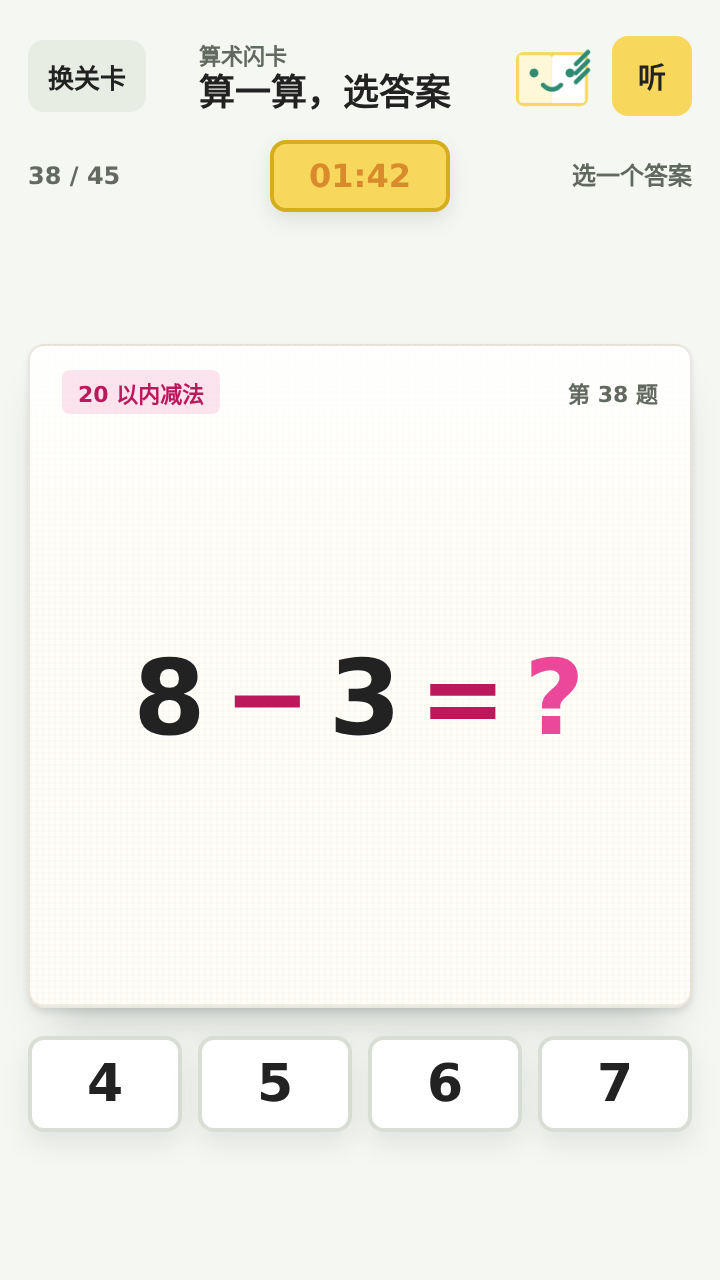
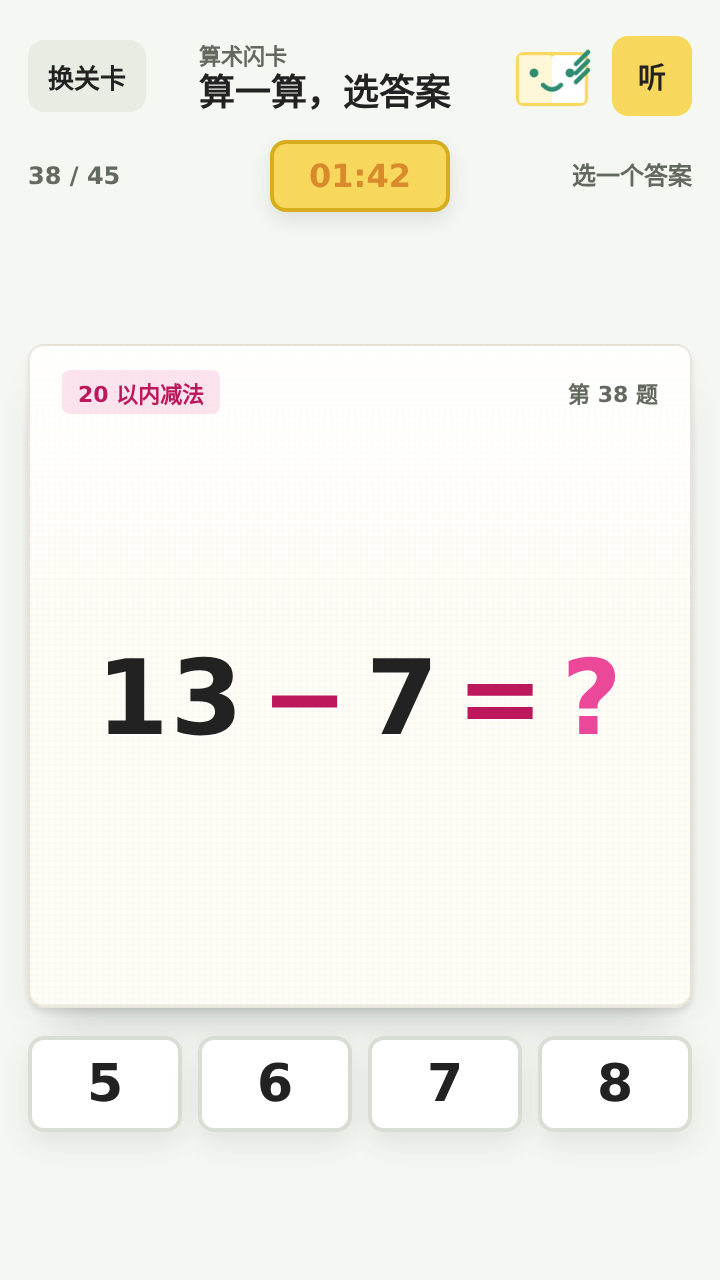
docs(math-flash): 修正题量口径 — 教材表 10以内加减是 66 张不是 45 张
主人指正：10以内加法/减法教材表各 66 张（含 0）。初版误按现有代码题池
条件（a<=9 && b<=9）算出 45 张，那不是教材表。

修正后的口径：
- L1/L2 教材表 66 张，剔除含 0 的送分题（21~22 张）后各 45 张
- L3/L4 教材表 45 张，原样（含和=10 那 9 张 / 10-1 那 9 张）
- 四关统一 45 张 → 90s/150s 阈值原样不动，每关 2.0s/3.33s 净节奏
- 若要严格 66 张，L1/L2 阈值需缩放到 132s/220s（已在文档标注为待推翻）

同时修正：
- LEVELS 答案区间边界（L2 min=1、L3 10..18、L4 1..9），已验证四关每题都能凑满 4 干扰项
- 设计稿 03 的 8−3 越界题改为合法退位题 13−7=6

diff --git a/docs/mockups/phase-11/screens/03-play-timer-warning.html b/docs/mockups/phase-11/screens/03-play-timer-warning.html
@@ -39,14 +39,14 @@
           <div class="math-card__inner">
             <div class="math-card__face math-card__face--front">
               <div class="math-card__head"><span class="math-card__badge">20 以内减法</span><span class="math-card__label">第 38 题</span></div>
-              <div class="math-eq"><span>8</span><span class="op">−</span><span>3</span><span class="op">=</span><span class="q">?</span></div>
+              <div class="math-eq"><span>13</span><span class="op">−</span><span>7</span><span class="op">=</span><span class="q">?</span></div>
             </div>
             <div class="math-card__face math-card__face--back">
               <div class="math-card__watermark">+ −</div>
             </div>
           </div>
         </div>
-<div id="math-options" class="option-grid zone-secondary" role="list" aria-label="答案选项"><button class="option-button math-option" type="button" role="listitem" aria-label="选项 4">4</button><button class="option-button math-option" type="button" role="listitem" aria-label="选项 5">5</button><button class="option-button math-option" type="button" role="listitem" aria-label="选项 6">6</button><button class="option-button math-option" type="button" role="listitem" aria-label="选项 7">7</button></div>
+<div id="math-options" class="option-grid zone-secondary" role="list" aria-label="答案选项"><button class="option-button math-option" type="button" role="listitem" aria-label="选项 5">5</button><button class="option-button math-option" type="button" role="listitem" aria-label="选项 6">6</button><button class="option-button math-option" type="button" role="listitem" aria-label="选项 7">7</button><button class="option-button math-option" type="button" role="listitem" aria-label="选项 8">8</button></div>
         </div>
       </section>
 

diff --git a/docs/mockups/phase-11/gen_mockups.py b/docs/mockups/phase-11/gen_mockups.py
@@ -246,7 +246,7 @@ def screen_play():
 
 
 def screen_play_warning():
-    """计时器越过 90 秒（三星线）→ 变橙。"""
+    """计时器越过 90 秒（三星线）→ 变橙。题：L4 退位减法 13−7=6（a∈[10,18]）。"""
     body = """
       <section id="game" class="screen active" aria-labelledby="game-title">
 %s%s
@@ -257,8 +257,8 @@ def screen_play_warning():
 """ % (
         TOPBAR,
         hud(progress="38 / 45", timer="01:42", timer_cls="timed-warning"),
-        card("8", "−", "3", badge="20 以内减法", question_label="第 38 题"),
-        options([4, 5, 6, 7]),
+        card("13", "−", "7", badge="20 以内减法", question_label="第 38 题"),
+        options([5, 6, 7, 8]),
     )
     return shell("mathFlash", body)
 

diff --git a/docs/phase-plans/phase-11-math-flash-timed.md b/docs/phase-plans/phase-11-math-flash-timed.md
@@ -11,6 +11,7 @@
 把算术闪卡从「每关 10 题、按错题数评星、带困难模式」改成：
 
 - **全量随机出完**：每关的闪卡知识点**去重成 45 张**，随机洗牌后**一张不漏全部出完**
+  （题量口径见 §2：**教材表 10以内加减是 66 张**，剔除含 0 的送分题后与进位/退位表统一为 45 张）
 - **计时评星**：整局总耗时决定星级
   - ≤ 90 秒 → ★★★
   - ≤ 150 秒 → ★★
@@ -19,27 +20,65 @@
 
 ---
 
-## 2. 为什么"45 张"是对的（核心发现）
+## 2. 题量口径（2026-11-08 修正，主人指正）
 
-四个关卡的**人教版一年级上册口算表题量恰好都是 45 小题**。这是硬约束，不是拍脑袋：
+> **⚠ 本节已被主人指正过一次。** 初版我按**现有代码的题池条件**（`a<=9 && b<=9`）算出"四关各 45 张"，那是错的 —— 那不是教材表。
+> 正确口径是**人教版一年级上册口算表原样**（含 0），10 以内加法/减法是 **66 张**，不是 45 张。
 
-| 关卡 | 知识点 | 卡片数 |
-|---|---|---|
-| L1 | 10 以内加法 | 45 |
-| L2 | 10 以内减法 | 45 |
-| L3 | 20 以内进位加法 | 45 |
-| L4 | 20 以内退位减法 | 45 |
+### 2.1 四张教材表的确切结构
 
-**时间预算换算**（反馈动画 0.6 秒/题，实测 `showMathFeedback` 延时 600ms / 错误 1300ms）：
-
-| 星级 | 总时长 | 每题毛时间 | 扣 0.6s 反馈后的纯思考时间 |
+| 关卡 | 教材表 | 算式结构 | 题数 |
 |---|---|---|---|
-| ★★★ | 90s | 2.00s | **1.40s** |
-| ★★ | 150s | 3.33s | **2.73s** |
+| L1 | 10 以内加法表 | `a,b ∈ [0,10]`，`a+b ≤ 10` | **66** |
+| L2 | 10 以内减法表 | `0 ≤ b ≤ a ≤ 10` | **66** |
+| L3 | 20 以内进位加法表 | `a,b ∈ [1,9]`，`10 ≤ a+b ≤ 18` | **45** |
+| L4 | 20 以内退位减法表 | `a ∈ [10,18]`，`b ∈ [1,9]`，`得数 ∈ [1,9]` | **45** |
 
-对一年级孩子：10 以内加减法熟练后 1.4 秒一题可达（三星）；进位/退位题 2.7 秒一题是二星线。**四关同题量 → 四关同时间预算 → 星级可横向比较**。这是"每关都是 45 张"最重要的理由。
+L3/L4 的结构与教材口诀表逐条对齐（已验证）：
+- L3 按和分组：和=10 有 9 个、11 有 8 个 … 18 有 1 个（教材：9+1=10, 8+2=10 … 1+9=10, 9+2=11 …）
+- L4 按得数组：得=1 有 1 个、2 有 2 个 … 9 有 9 个（教材：10-1=9, 11-2=9 … 18-9=9）
 
-反例：如果沿用现有题池（L2=54 / L3=55 张），90 秒要每题 1.67 秒，进位加法几乎不可能三星；星级会变成"关卡专属时间表"，失去统一口径。
+### 2.2 为什么不能直接套用固定 90s/150s
+
+**66 张 ÷ 90 秒 = 每题 1.36 秒，扣掉 0.6 秒反馈动画后只剩 0.76 秒净思考。**
+一年级孩子读题 + 心算 + 点选项至少 1.5 秒 → **L1/L2 在固定 90s 门下永远拿不到三星**。
+
+| 关卡 | 题数 | 90s 内每题 | 扣 0.6s 反馈后净思考 | 150s 内净思考 |
+|---|---|---|---|---|
+| L1 / L2 | 66 | 1.36s | **0.76s ❌ 不可达** | 1.67s |
+| L3 / L4 | 45 | 2.00s | 1.40s ✅ | 2.73s |
+
+### 2.3 采用的方案（待你推翻）
+
+**剔除含 0 的边角题 → 四关各 45 张 → 你的原始阈值 90s/150s 原样保留，一秒不改。**
+
+| 关卡 | 教材表 | 剔除含0后 | 三星线 | 二星线 | 每题 |
+|---|---|---|---|---|---|
+| L1 10以内加法 | 66 | **45** | **90s** | **150s** | 2.0s / 3.33s |
+| L2 10以内减法 | 66 | **45** | **90s** | **150s** | 2.0s / 3.33s |
+| L3 20以内进位加法 | 45 | **45** | **90s** | **150s** | 2.0s / 3.33s |
+| L4 20以内减法 | 45 | **45** | **90s** | **150s** | 2.0s / 3.33s |
+
+为什么这样最干净：
+1. **你的指令原样落地** —— 90 秒三星 / 150 秒二星，不需要任何"按关卡缩放"的花招，规则一句话说得清
+2. 四关题量统一 45 → 每关时间预算完全一致 → **难度可比**（孩子在四关拿到同样的星 = "算得快"，不是"关卡短"）
+3. 90 秒 ÷ 45 = 2.0 秒/题，扣 0.6 秒反馈后净思考 1.40 秒 —— 一年级孩子做 10 以内加减法的真实水平
+4. 剔掉的 21~22 张是 `0+0`、`5-0`、`3-3=0` 这类**送分题**：一年级还没学到 0 的认识（第二单元），且对计时挑战零区分度 —— 瞬间答出只会稀释"速度"这个信号
+
+### 2.4 备选：严格对齐教材表 66 张
+
+如果你要求 L1/L2 严格出满 66 张（含 0），那么：
+
+| 关卡 | 题数 | 三星线 | 二星线 | 后果 |
+|---|---|---|---|---|
+| L1 / L2 | 66 | **132s** | **220s** | 阈值必须按题量缩放（每题仍 2.0s / 3.33s） |
+| L3 / L4 | 45 | **90s** | **150s** | 不变 |
+
+- 一局约 **2.8 分钟**（45 张约 1.9 分钟），注意力压力明显更大
+- L1/L2 的三星线变成 2 分 12 秒，与"1分半三星"的口号不再一致
+- 好处：完全对齐教材表，送分题也练到
+
+> ⚠ **我选了"剔除含 0"，这是我的默认取舍，不是你的指令。** 两条路都成立，差别就两点：**① 是否出送分题 ② L1/L2 的阈值是 90s 还是 132s**。要改成严格 66 张，说一声即可。
 
 ---
 
@@ -216,16 +255,52 @@ function buildDeck(size) {
 }
 ```
 
-各关合法性条件（在现有 `createQuestion` 基础上收紧，去掉边角重复）：
+各关合法性条件（在现有 `createQuestion` 基础上收紧，去掉 0 边角与重复）：
 
-| 关卡 | 条件 | 说明 |
-|---|---|---|
-| L1 | `a>=1 && b>=1 && a+b<=10` | 10 以内加法，共 45 |
-| L2 | `a>=2 && b>=1 && b<a && a-b>=1` | 去掉 `a-b=0`（10-10=0），得 45 |
-| L3 | `a<=9 && b<=9 && a+b>=11` 或 `a==10 && b>=1 && b<=9` | 去掉 `10+10`，得 45 |
-| L4 | `a>=11 && b<=9 && a%10<b && a-b>=2` | 保持，得 45 |
+| 关卡 | 条件 | 说明 | 题数 |
+|---|---|---|---|
+| L1 | `a>=1 && b>=1 && a<=10 && b<=10 && a+b<=10` | 10 以内加法（教材表 66 张去掉 21 张含 0 的） | 45 |
+| L2 | `a>=1 && b>=1 && b<a && a<=10` | 10 以内减法（教材表 66 张去掉 22 张 `a-0` / `a-a` 的） | 45 |
+| L3 | `a<=9 && b<=9 && a+b>=10 && a+b<=18` | 20 以内进位加法（教材表原样，含和=10 那 9 张） | 45 |
+| L4 | `a>=10 && a<=18 && b>=1 && b<=9 && a-b>=1 && a-b<=9` | 20 以内退位减法（教材表原样，含 `10-1` 那 9 张） | 45 |
 
-> L3 的 `10+x` 一档（10+1..10+9）保留 —— 这是 20 以内进位加法表的正式内容。
+> **L3/L4 与现有代码的差异**：现码 L3 是 `a<=10 && answer>=11`（多出 `10+1..10+9` 和 `10+10`，共 55 张），现码 L4 是 `a>=11`（漏掉 `10-1..10-9`，且 `a<=20` 多出 20 减几那 9 张）。新口径按教材表逐条对齐。
+>
+> **L1/L2 与现有代码的差异**：现码 L1 `a<=9 && b<=9`（漏掉 `10+x` 与 `x+10` 共 21 张），现码 L2 `a>=2`（漏掉 `1-b` 共 11 张）。新口径按教材表。
+>
+> **⚠ 若改为严格 66 张口径**，L1 条件去掉 `a>=1 && b>=1`（允许 a 或 b 为 0）、L2 去掉 `b<a`（允许 `b=0` 和 `a=b`），阈值改按 §2.4 缩放。
+
+### 5.1b `LEVELS` 的 minAnswer / maxAnswer 必须同步改
+
+题池调整后答案范围边界变了，**不改会导致 `createOptions()` 造出越界干扰项**：
+
+| size | 字段 | 现值 | 新值 | 原因 |
+|---|---|---|---|---|
+| 3 (L1) | minAnswer / maxAnswer | 2 / 10 | **2 / 10 不变** | 去掉含 0 的题后，答案区间仍是 2..10 |
+| 4 (L2) | minAnswer | 0 | **1** | 去掉 `a-a=0`（`3-3=0`）后最小答案是 `2-1=1` |
+| 4 (L2) | maxAnswer | 9 | **9 不变** | 最大仍是 `10-1=9` |
+| 5 (L3) | minAnswer | 11 | **10** | 教材表含和=10 那 9 张（`9+1=10`、`8+2=10`…） |
+| 5 (L3) | maxAnswer | 20 | **18** | 教材表最大是 `9+9=18`，去掉 `10+10=20` |
+| 6 (L4) | minAnswer | 2 | **1** | 教材表含 `10-9=1` |
+| 6 (L4) | maxAnswer | 19 | **9** | 20 以内退位减法得数最大 9（`10-1=9`） |
+
+改完后每关答案区间（**已用脚本验证**）：
+- L1 `2..10` / L2 `1..9` / L3 `10..18` / L4 `1..9`
+
+`createOptions()` 用 `level.minAnswer/maxAnswer` 过滤干扰项。**已验证四关的每一个答案都能凑满 4 个不重复选项**（L2/L4 最窄：答案=1 → 干扰项 2,3,4；答案=9 → 干扰项 8,7,6），**选项生成逻辑本身不用改**。
+
+### 5.1c 去重后与教材口算表的对应（复核结论）
+
+四关各 45 张，逐条对齐人教版一年级上册口算表：
+
+| 关卡 | 教材表 | 剔除后结构 | 小题数 |
+|---|---|---|---|
+| L1 | 10 以内加法表（66） | 去掉含 0 的 21 张 | 45 |
+| L2 | 10 以内减法表（66） | 去掉 `a-0` 11 张 + `a-a` 11 张 | 45 |
+| L3 | 20 以内进位加法表（45） | 原样，含和=10 那 9 张 | 45 |
+| L4 | 20 以内退位减法表（45） | 原样，含 `10-1` 那 9 张 | 45 |
+
+已验证 L3 按和分组为 9/8/7/6/5/4/3/2/1（和=10..18），L4 按得数组为 1/2/3/4/5/6/7/8/9（得=1..9）—— 与教材口诀表结构完全一致。
 
 ### 5.2 session 结构
 
@@ -342,17 +417,22 @@ function buildDeck(size) {
 
 ## 10. 开放问题（待你拍板，各带推荐默认值）
 
-### Q1：答错要不要扣时间？
+### Q1：含 0 的送分题要不要出？（**主人已指出教材表是 66 张，这条最关键**）
+- **推荐默认：剔除**，四关统一 45 张，阈值 90s/150s 原样不动。
+- 备选：严格 66 张（L1/L2 阈值自动缩放到 132s/220s，一局约 2.8 分钟）。
+- 详见 §2.3 / §2.4。
+
+### Q2：答错要不要扣时间？
 - **推荐默认：不扣**。纯按总耗时评星，实现最简单，规则一句话说得清（"越快越三星"）。
 - 备选：答错 +3 秒（防止乱点刷星）。代价：规则变复杂，孩子要理解"罚时"。
-
-### Q2：四关都保持 45 张，还是给入门关更少的题？
-- **推荐默认：四关都 45 张**。四关同题量 → 同时间预算 → 星级可横向比较（"我在哪关最快"）。
-- 备选：L1 给 30 张（对刚入学的孩子更友好），但会破坏跨关可比性。
 
 ### Q3：最佳记录显示什么？
 - **推荐默认：显示"最快用时"**（如"最快 01:08"），与新评星口径一致。
 - 备选：显示"最高星数 + 那一局用时"。
+
+### Q4：四关都 45 张，还是给入门关更少的题？
+- **推荐默认：四关都 45 张**。四关同题量 → 同时间预算 → 星级可横向比较（"我在哪关最快"）。
+- 备选：L1 给 30 张（对刚入学的孩子更友好），但会破坏跨关可比性。
 
 ---
 
